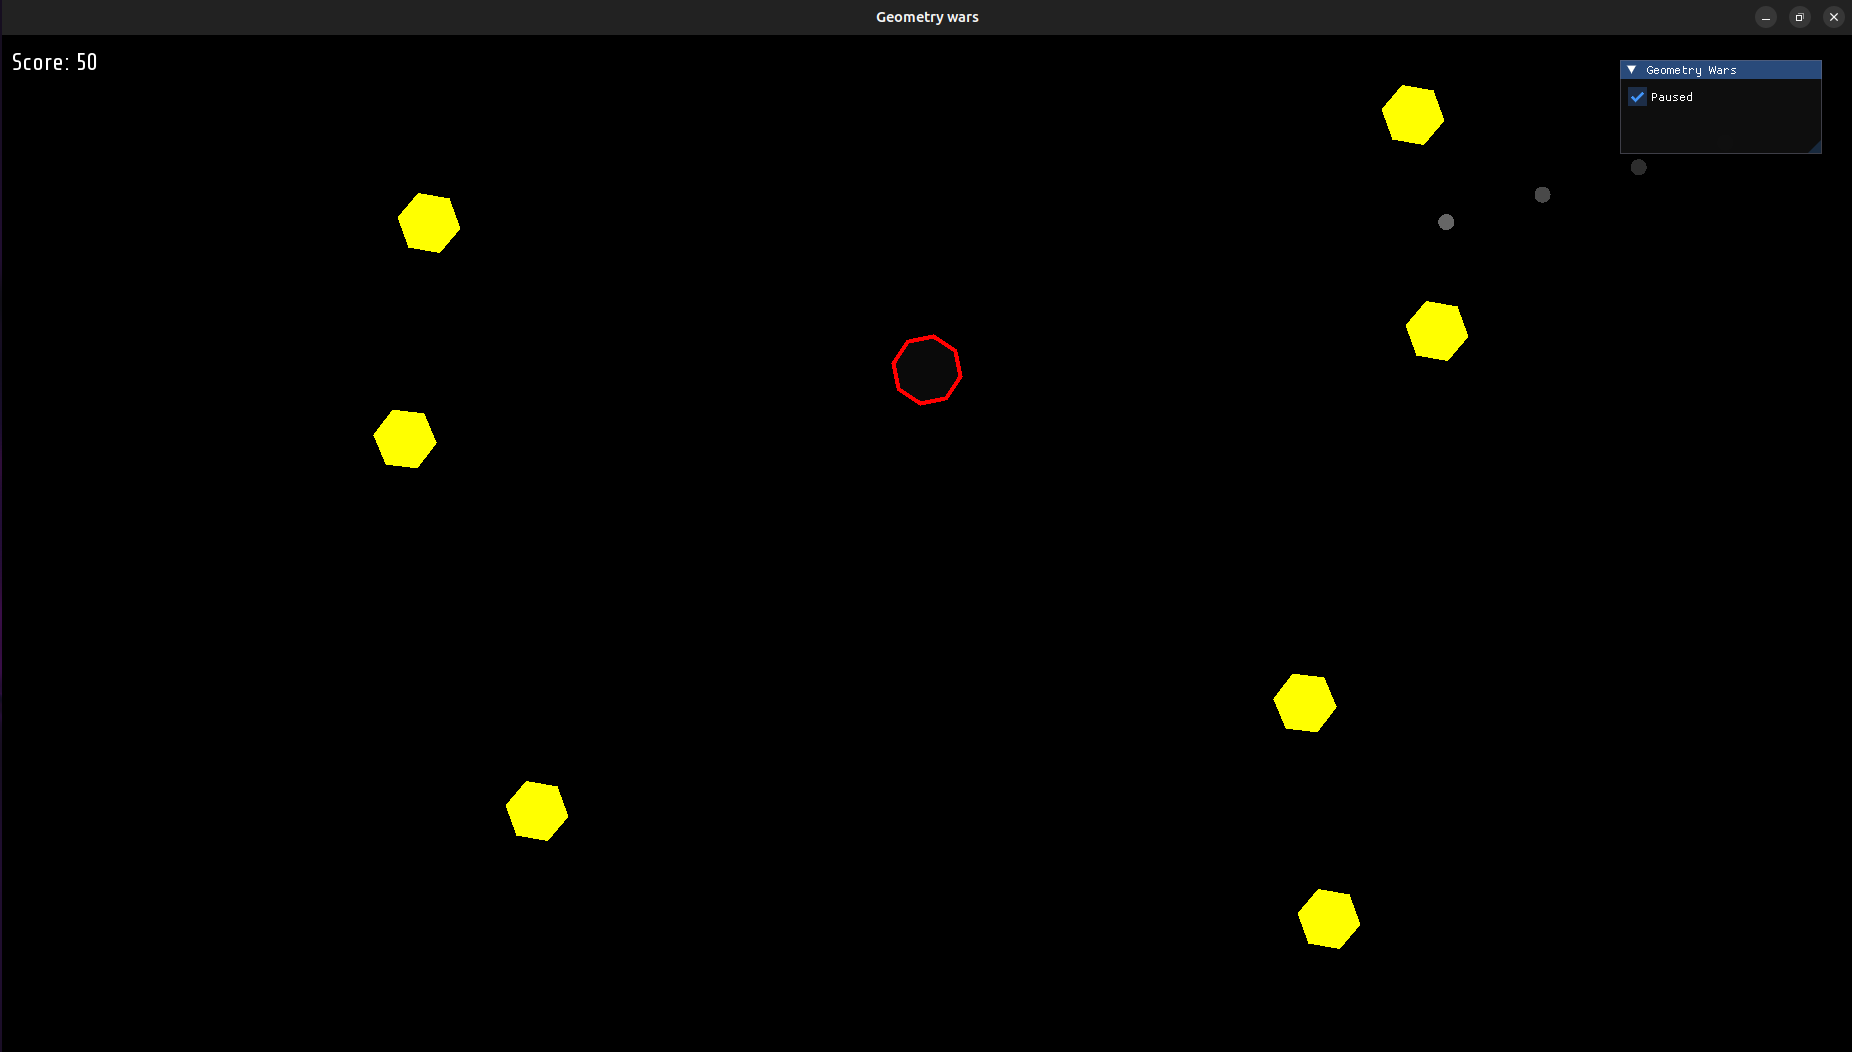
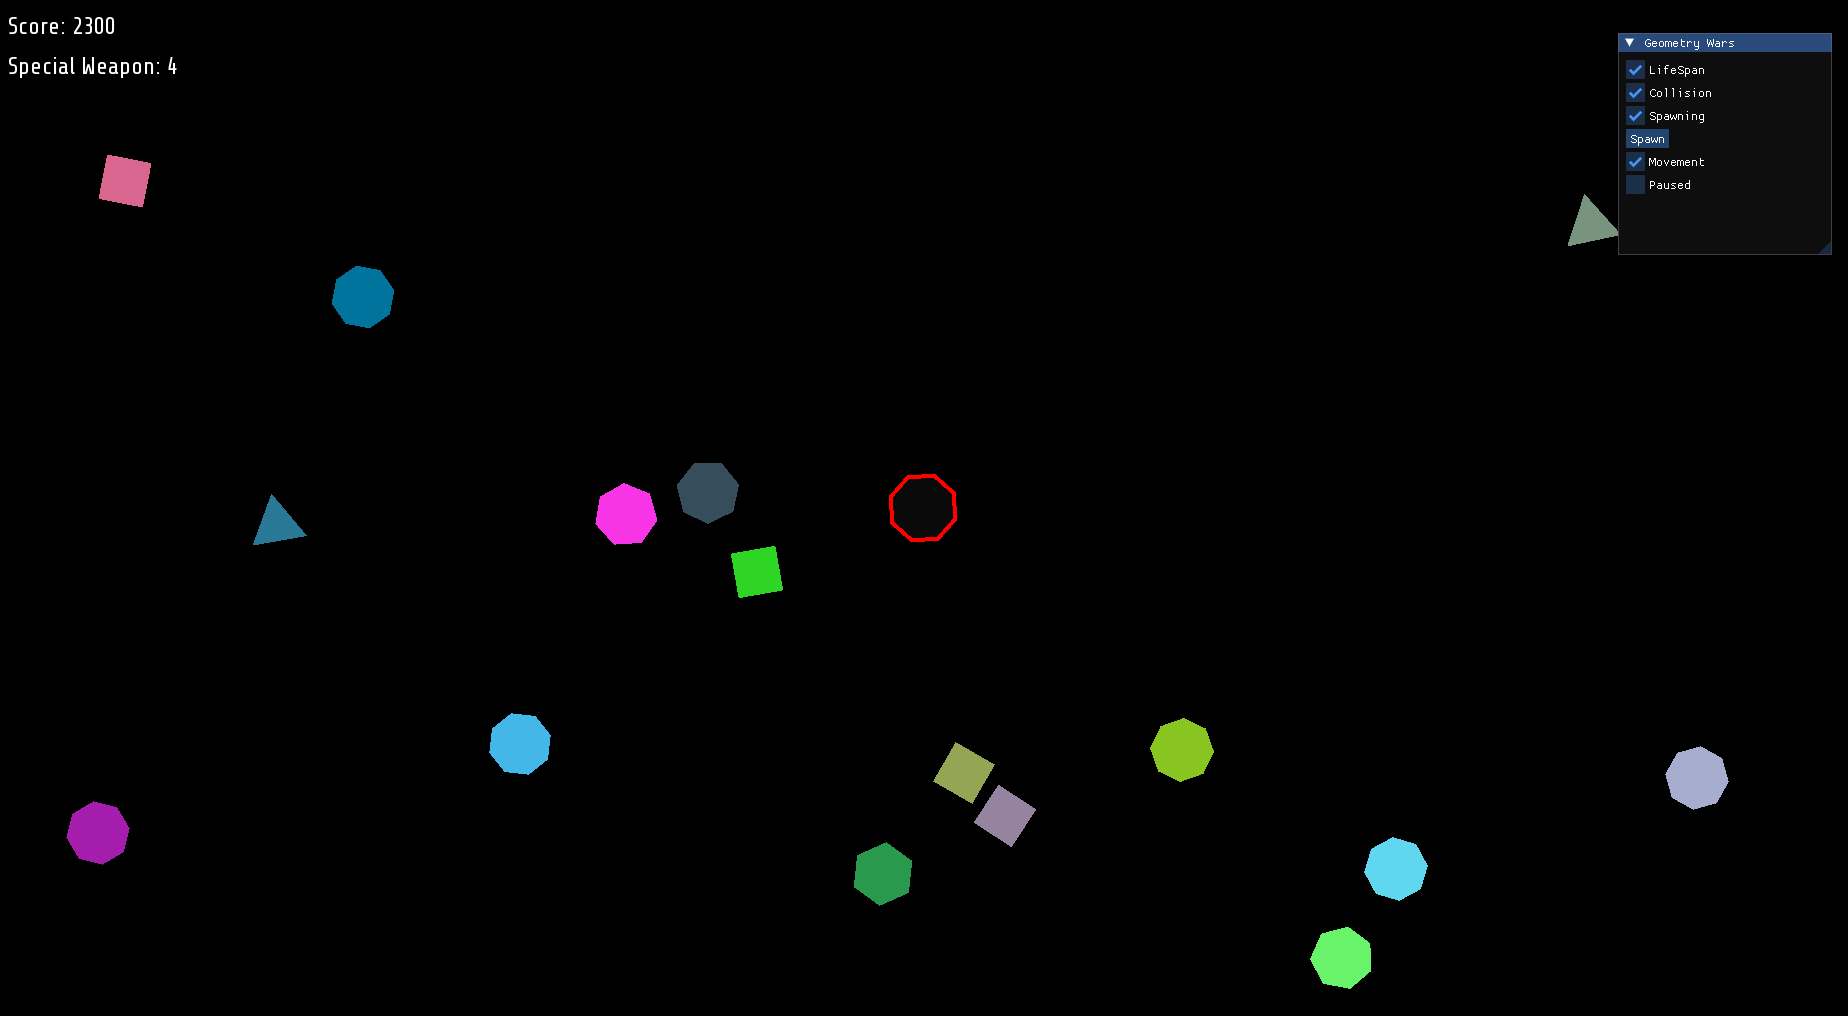
feat: add more control to enable and disable systems

diff --git a/geometry_wars/src/Game.cpp b/geometry_wars/src/Game.cpp
@@ -37,10 +37,21 @@ void Game::run() {
         ImGui::SFML::Update(_window, _deltaClock.restart());
 
         if (!_paused) {
-            sEnemySpawner();
-            sMovement();
-            sCollision();
-            sLifespan();
+            if (_enableMovementSystem) {
+                sMovement();
+            }
+
+            if (_enableSpawnSystem) {
+                sEnemySpawner();
+            }
+
+            if (_enableCollissionSystem) {
+                sCollision();
+            }
+            
+            if (_enableLifeSpanSystem) {
+                sLifespan();
+            }
         }
 
         sUserInput();
@@ -292,6 +303,15 @@ void Game::sEnemySpawner() {
 
 void Game::sGUI() {
     ImGui::Begin("Geometry Wars");
+    ImGui::Checkbox("LifeSpan", &_enableLifeSpanSystem);
+    ImGui::Checkbox("Collision", &_enableCollissionSystem);
+    ImGui::Checkbox("Spawning", &_enableSpawnSystem);
+    
+    if (ImGui::Button("Spawn")) {
+        spawnEnemy();
+    }
+
+    ImGui::Checkbox("Movement", &_enableMovementSystem);
     ImGui::Checkbox("Paused", &_paused);
     ImGui::End();
 
@@ -349,11 +369,12 @@ void Game::sRender() {
 void Game::sUserInput() {
     sf::Event event;
 
-    while(_window.pollEvent(event)) {
+    while (_window.pollEvent(event)) {
         ImGui::SFML::ProcessEvent(_window, event);
 
         if (event.type == sf::Event::Closed) {
             _running = false;
+            return;
         }
 
         if (event.type == sf::Event::KeyPressed) {

diff --git a/geometry_wars/src/Game.h b/geometry_wars/src/Game.h
@@ -22,14 +22,20 @@ private:
     EnemyConfig _enemyConfig;
     BulletConfig _bulletConfig;
     sf::Clock _deltaClock;
+
     int _score = 0;
     int _specialWeaponCharges = 5;
     const int _pointToSpecialCharge = 5000;
     int _pointsToSpecialChargeLeft = _pointToSpecialCharge;
     int _currentFrame = 0;
     int _lastEnemySpawnTime = 0;
+
     bool _running = true;
     bool _paused = false;
+    bool _enableLifeSpanSystem = true;
+    bool _enableSpawnSystem = true;
+    bool _enableCollissionSystem = true;
+    bool _enableMovementSystem = true;
 
     std::shared_ptr<Entity> _player;
 
